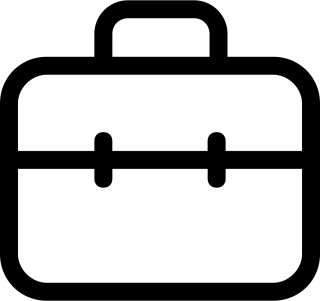
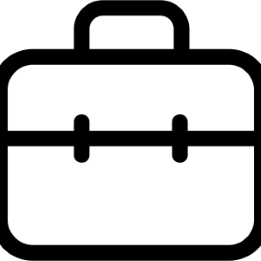
Add files via upload

diff --git a/styles.css b/styles.css
@@ -1,6 +1,9 @@
 *{
     box-sizing: border-box;
 }
+html{
+    scroll-behavior: smooth;
+}
 body, h1, h2, h3, h4, h5, h6, p{
     margin: 0;
     padding: 0;
@@ -19,7 +22,6 @@ body, h1, h2, h3, h4, h5, h6, p{
     align-items: center;
     text-shadow: 0px 0px 9px  #7070707f;
     flex-wrap: wrap;
-    border: 1px solid #000;
     padding: 30px;
     text-wrap: pretty;
     gap: 10px;
@@ -29,10 +31,9 @@ body, h1, h2, h3, h4, h5, h6, p{
     font-weight: 100;
     letter-spacing: 3px;
     margin: auto;
+    margin-left:10dvw;
     display: inline-block;
-    font-size: clamp(1.5rem, 5vw, 3rem);
-    margin: auto ;
-
+    font-size: clamp(2rem, 10vw,4rem);
     position: relative;
     padding: 0;
     height: auto;
@@ -58,37 +59,48 @@ body, h1, h2, h3, h4, h5, h6, p{
 /*----- HEADER NAV -----*/
 
 .header__nav{
-
+    background: radial-gradient( #515151,#000);
+    border-radius: 1000px;
+    border: 2.5px solid #000;
+    padding: 5px;
     display: flex;
     flex-direction: column;
-    justify-content: space-around;
+    justify-content: space-between;
     align-items: center;
-    margin: auto;
-    height: 90%;
+    margin-right: 0;
+    min-height: 300px;
+    min-width:20px;
+    padding-top: 7px;
+    padding-bottom: 10px;
 }
 img {
-    width: clamp(80px, 60%, 80px);
-    height: clamp(80px, 60%, 80px);
+    max-height:80%;
+    max-width: 80%;
     object-fit: contain;
+    padding: 0;
+    
 }
 .header__nav__item {
-    width: clamp(130px, 15vw, 120px);
-  height: clamp(130px, 15vw, 120px);
+    width: 35px;
+    height: 35px;
+    padding: 5px;
     border-radius: 50%;
     background-color: rgb(255, 255, 255);
     display: flex;
     justify-content: center;
     align-items: center;
-    border: 2px solid #acacac;
-    transition: all 0.4s ease-in-out;
+    border: 1px solid #000;
+    transition: all 0.6s ease-in-out;
 }
 .header__nav__item:hover{
     background-color: #ffffff;
-    border: 2px solid #000000;
+    width: 45px;
+    height: 45px;
 }
 
 .abtme{
-    transform: scale(1.64);
+    transform: scale(1.4);
+    overflow: hidden;
 }
 /*----- HEADER QUERIES -----*/
 
@@ -98,15 +110,27 @@ img {
        
     }
 }
-@media screen and (max-width :750px){
+
+@media screen and (max-width :1140px){
     
+    .header__container{
+        flex-direction: column;
+    }
     .header__container__name{
         text-align: center;
         margin: auto;
     }
+    
     .header__nav{
-        margin: 0;
+        margin:auto;
+        flex-flow: row;
+        flex-shrink: 1;
+        min-height: fit-content;
+        width: 70%;
+        margin-bottom: 10px;
+        padding: 5px 2px;
     }
+  
     
 }
 
@@ -127,4 +151,12 @@ img {
     to{
         width: 0%;
     }
+}
+
+
+.languages__container{
+    height: 100dvh;
+    width: 100%;
+    background-color: #dedede; 
+    display: grid;
 }

diff --git a/index.html b/index.html
@@ -14,21 +14,32 @@
         <div class="header__container">
             <h1 class="header__container__name">Hi! I'm Tomás Bobbett ...<span class="bar">|</span></h1>
             <div class="header__nav">
-                Languages
-                <div class="header__nav__item">
-                    <img src="img/programming-language-icon-12.png" alt="">
+               
+                <div >
+                    <a class="header__nav__item" href="#lang">
+                        <img src="img/programming-language-icon-12.png" alt="">
+                    </a>
                 </div>
-                Experience
-                <div class="header__nav__item">
-                    
-                    <img src="img/exp.png" alt="">
+                <div >
+                    <a class="header__nav__item" href="">
+                        <img src="img/exp.png" alt="">
+                    </a>
                 </div>
-                About Me
-                <div class="header__nav__item">
-                    <img class="abtme" src="img/abtme.png" alt="">
+                <div >
+                    <a class="header__nav__item" href="">
+                        <img class="abtme" src="img/abtme.png" alt="">
+                    </a>
                 </div>
             </div>
         </div>
     </header>
+    <main>
+        <section id="lang" class="languages">
+            <div class="languages__container">
+                a
+            </div>
+        </section>
+        
+    </main>
 </body>
 </html>
